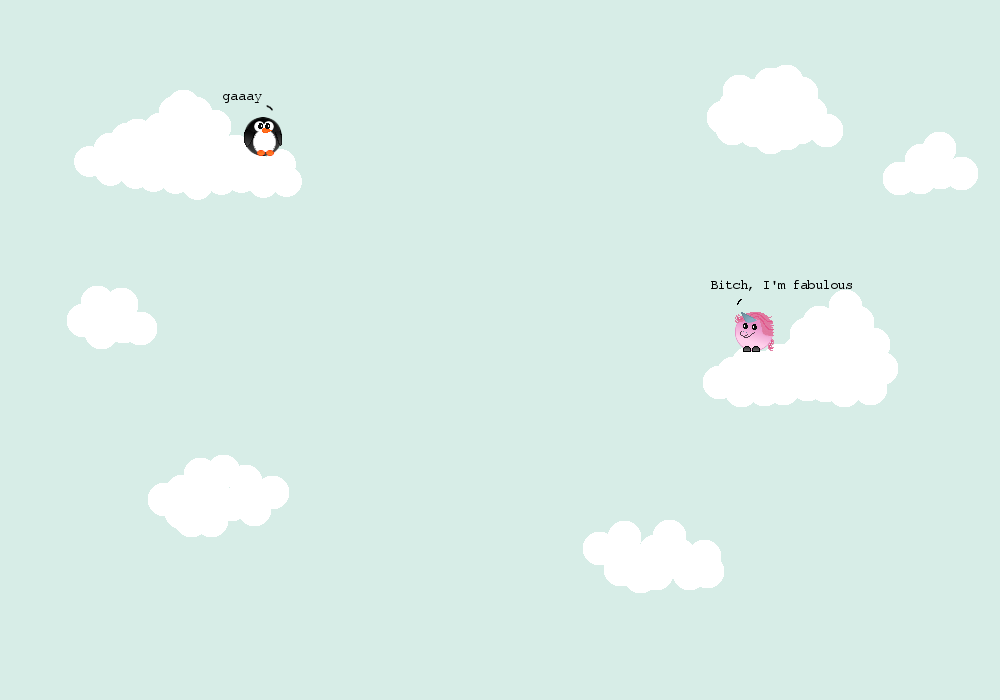
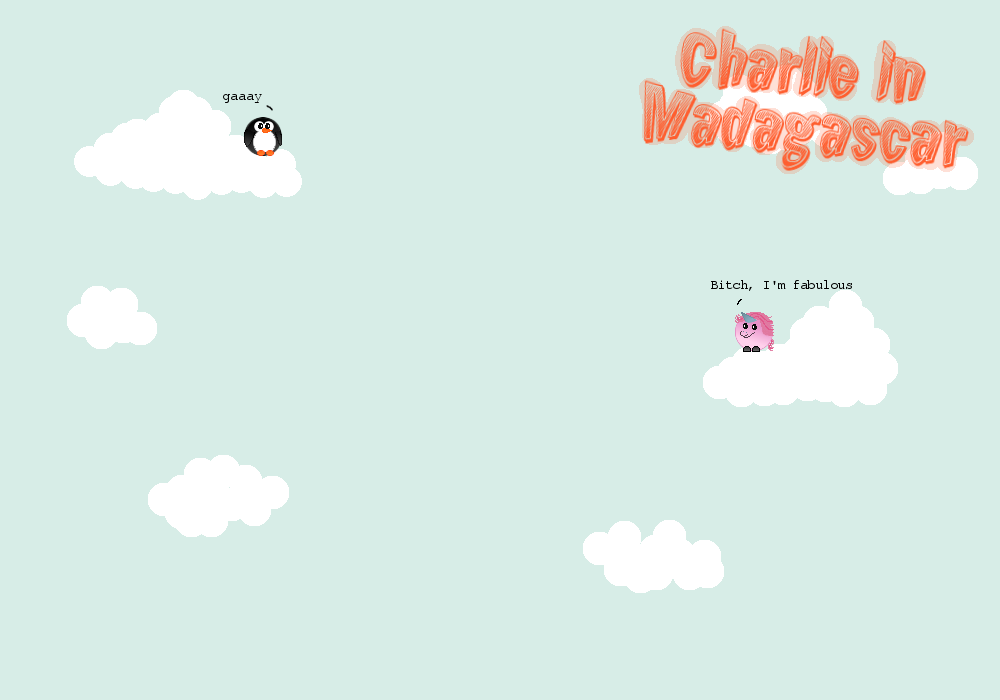
Changes about styling
- Customize looks syrupy sweet now, buttons everywhere else too
- background in main menue says 'Charlie in Madagascar'
- changed the background in Flat.lvl and High.lvl as flat.png doesn't exist

Changed region(s): [[0.62, 0.03, 0.992, 0.27]]

diff --git a/resources/layout/css/customize.css b/resources/layout/css/customize.css
@@ -23,3 +23,32 @@
 #background {
     -fx-background-image: url("file:resources/levels/board.png");
 }
+
+.list {
+    -fx-background-image: url("file:resources/layout/rainbow.png");
+    -fx-background-repeat: repeat-y;
+    -fx-background-position: center;
+}
+
+.listHBox {
+    -fx-background-color: rgba(255, 255, 255, 0.8);
+    -fx-padding: 0 0 0 0;
+}
+
+.listHBox:hover {
+    -fx-background-color: rgba(254, 94, 47, 0.5);
+}
+
+.listButton {
+    -fx-background-insets: 50;
+}
+
+.mainButton {
+    -fx-background-color: rgba(254, 94, 47, 0.5);
+    -fx-padding: 5 10 5 10;
+    -fx-background-radius: 5;
+}
+
+.mainButton:hover {
+    -fx-background-color: rgba(255, 255, 255, 0.7);
+}

diff --git a/resources/layout/css/settings.css b/resources/layout/css/settings.css
@@ -4,3 +4,22 @@
     -fx-background-image: url("file:resources/layout/back.png");
     -fx-background-position: top left;
 }
+
+.mainButton {
+    -fx-background-color: rgba(254, 94, 47, 0.5);
+    -fx-padding: 5 10 5 10;
+    -fx-background-radius: 5;
+}
+
+.mainButton:hover {
+    -fx-background-color: rgba(255, 255, 255, 0.7);
+}
+
+.plus {
+    -fx-background-color: linear-gradient(#ff5400, #be1d00);
+    -fx-background-radius: 10;
+    -fx-background-insets: 30;
+    -fx-text-fill: #cc0100;
+    -fx-border-color: rgb(150, 150, 150);
+    -fx-border-radius: 5;
+}

diff --git a/resources/layout/css/mapwindow.css b/resources/layout/css/mapwindow.css
@@ -14,14 +14,11 @@
 }
 
 .button {
-    -fx-font-size: 15px;
-    -fx-padding: 4 22 12 22;
-    -fx-text-fill: #FFFFFF;
-    -fx-background-image: url("file:resources/layout/menuebutton.png");
-    -fx-background-repeat: repeat-x;
-    -fx-focus-color: transparent;
+    -fx-background-color: rgba(254, 94, 47, 0.5);
+    -fx-padding: 5 10 5 10;
+    -fx-background-radius: 5;
 }
 
 .button:hover  {
-    -fx-background-image: url("file:resources/layout/menuebuttonhover.png");
+    -fx-background-color: rgba(255, 255, 255, 0.7);
 }

diff --git a/resources/layout/css/options.css b/resources/layout/css/options.css
@@ -8,3 +8,13 @@
 .optionsText {
     -fx-fill: linear-gradient(from 0% 0% to 100% 200%, repeat, #ff5e30 0%, #ff2b30 50%);
 }
+
+.mainButton {
+    -fx-background-color: rgba(254, 94, 47, 0.5);
+    -fx-padding: 5 10 5 10;
+    -fx-background-radius: 5;
+}
+
+.mainButton:hover {
+    -fx-background-color: rgba(255, 255, 255, 0.7);
+}

diff --git a/resources/layout/css/lobby.css b/resources/layout/css/lobby.css
@@ -42,3 +42,13 @@
     -fx-background-insets: 50;
     -fx-text-fill: #cc0100;
 }
+
+.mainButton {
+    -fx-background-color: rgba(255, 255, 255, 0.7);
+    -fx-padding: 5 10 5 10;
+    -fx-background-radius: 5;
+}
+
+.mainButton:hover {
+    -fx-background-color: rgba(254, 94, 47, 0.7);
+}

diff --git a/src/de/hhu/propra/team61/CustomizeWindow.java b/src/de/hhu/propra/team61/CustomizeWindow.java
@@ -63,12 +63,12 @@ public class CustomizeWindow extends Application {
     /** TextField to enter wanted team name */
     private TextField name = new TextField("player");
     /** ColorPicker to choose wanted team color */
-    private ColorPicker color = new ColorPicker(Color.web("#FF00FF"));
+    private ColorPicker color = new ColorPicker(Color.web("#663366"));
     /** choose penguin or unicorn as the team's figure */
     private ChoiceBox<String> figureChooser = new ChoiceBox<>();
 
     ///Style editor
-    /** grid for all GUI-elements for creating a game styke */
+    /** grid for all GUI-elements for creating a game style */
     private CustomGrid newGameStyleGrid = new CustomGrid();
     /** grid containing elements for changing items */
     private CustomGrid itemsGrid = new CustomGrid();
@@ -170,23 +170,27 @@ public class CustomizeWindow extends Application {
     private void createTopBox() {
         HBox topBox = new HBox(20);
         Button edit = new Button("Edit team/game style/map");
+        edit.getStyleClass().add("mainButton");
         edit.setOnAction(e -> {
             root.getChildren().remove(itemsGrid);
             createEditGrid();
             root.setLeft(editGrid);
         });
         Button newTeam = new Button("Create new team");
+        newTeam.getStyleClass().add("mainButton");
         newTeam.setOnAction(e -> {
             refresh();
             root.setLeft(newTeamGrid);
             root.getChildren().remove(itemsGrid);
         });
         Button newGameStyle = new Button("Create new game style");
+        newGameStyle.getStyleClass().add("mainButton");
         newGameStyle.setOnAction(e -> {
             refresh();
             root.setLeft(newGameStyleGrid);
         });
         Button newMap = new Button("Create new map");
+        newMap.getStyleClass().add("mainButton");
         newMap.setOnAction(e -> {
             refresh();
             root.getChildren().remove(itemsGrid);
@@ -195,12 +199,13 @@ public class CustomizeWindow extends Application {
             root.setLeft(newMapPane);
             scrollPane.requestFocus(); // to make cheat work right away
         });
-        Button backToMenue = new Button("Go back to menue");
-        backToMenue.setOnAction(e -> {
+        Button backToMenu = new Button("Go back to menu");
+        backToMenu.getStyleClass().add("mainButton");
+        backToMenu.setOnAction(e -> {
             stopCheat();
             sceneController.switchToMenu();
         });
-        topBox.getChildren().addAll(edit, newTeam, newGameStyle, newMap, backToMenue);
+        topBox.getChildren().addAll(edit, newTeam, newGameStyle, newMap, backToMenu);
         topBox.setAlignment(Pos.CENTER);
         root.setTop(topBox);
     }
@@ -210,20 +215,20 @@ public class CustomizeWindow extends Application {
      */
     private void createEditGrid() {
         editGrid = new CustomGrid();
-        Text whatToDoHere = new Text("Here you can edit or remove an existing team or game style.");
-        editGrid.add(whatToDoHere, 0, 2, 15, 1);
         Text teamsText = new Text("Teams:");
         teamsText.setFont(Font.font("Verdana", 20));
-        editGrid.add(teamsText, 0, 4, 2, 1);
+        editGrid.add(teamsText, 0, 0, 2, 1);
         getTeams();
         Text stylesText = new Text("Game Styles:");
         stylesText.setFont(Font.font("Verdana", 20));
-        editGrid.add(stylesText, 5, 4, 2, 1);
+        editGrid.add(stylesText, 1, 0, 2, 1);
         getGameStyles();
         Text mapsText = new Text("Maps:");
         mapsText.setFont(Font.font("Verdana", 20));
-        editGrid.add(mapsText, 10, 4, 2, 1);
+        editGrid.add(mapsText, 2, 0, 2, 1);
         getMaps();
+        Image customizeImage = new Image("file:resources/layout/customize.png");
+        editGrid.add(new ImageView(customizeImage), 3, 1, 3, 7);
     }
 
     /**
@@ -248,6 +253,7 @@ public class CustomizeWindow extends Application {
         figureChooser.getSelectionModel().selectFirst();
         newTeamGrid.add(figureChooser, 2, 7);
         Button saveTeam = new Button("Save");
+        saveTeam.getStyleClass().add("mainButton");
         saveTeam.setOnAction(e -> {
             CustomizeManager.save(teamToJson(), "teams/" + name.getText());
             createEditGrid();
@@ -290,6 +296,7 @@ public class CustomizeWindow extends Application {
         mapChooser.getSelectionModel().selectFirst();
         newGameStyleGrid.add(mapChooser, 1, 4);
         Button saveGameStyle = new Button("Save");
+        saveGameStyle.getStyleClass().add("mainButton");
         saveGameStyle.setOnAction(e -> {
             CustomizeManager.save(styleToJson(), "gamestyles/"+styleNameField.getText());
             createEditGrid();
@@ -298,6 +305,7 @@ public class CustomizeWindow extends Application {
         });
         newGameStyleGrid.add(saveGameStyle, 0, 10);
         Button changeItems = new Button("Change items");
+        changeItems.getStyleClass().add("mainButton");
         newGameStyleGrid.add(changeItems, 0, 5);
         changeItems.setOnAction(e -> {
             root.setRight(itemsGrid);
@@ -419,14 +427,17 @@ public class CustomizeWindow extends Application {
         actionForTerrainButton(leftEdge, "Left edge", '\\');
         selectionGrid.add(leftEdge, 0, 6);
         selectionGrid.add(terrainType, 0, 7, 5, 1);
+        eraser.getStyleClass().add("mainButton");
         actionForTerrainButton(eraser, "Erase parts of the map.", ' ');
         selectionGrid.add(eraser, 0, 11);
+        spawnPoint.getStyleClass().add("mainButton");
         actionForTerrainButton(spawnPoint, "Set a spawn point", 'P');
         selectionGrid.add(spawnPoint, 0, 12);
         reset.setOnAction(e -> {
             //Remove all blocks, set to board.png and water
             initializeLevelEditor();
         });
+        reset.getStyleClass().add("mainButton");
         actionForTerrainButton(reset, "Remove your masterpiece :(", chosenTerrainType);
         selectionGrid.add(reset, 0, 13);
         save.setOnAction(e -> {
@@ -434,6 +445,7 @@ public class CustomizeWindow extends Application {
             createEditGrid();
             root.setLeft(editGrid);
         });
+        save.getStyleClass().add("mainButton");
         actionForTerrainButton(save, "Save the map.", chosenTerrainType);
         selectionGrid.add(save, 0, 14);
         Text brush = new Text("Brush width: ");
@@ -737,6 +749,10 @@ public class CustomizeWindow extends Application {
      */
     private void getTeams() {
         ArrayList<String> availableTeams = CustomizeManager.getAvailableTeams();
+        Pane teamList = new Pane();
+        teamList.getStyleClass().add("list");
+        ArrayList<HBox> hboxes = new ArrayList<>();
+        CustomGrid teamGrid = new CustomGrid();
         for (int i=0; i<availableTeams.size(); i++) {
             Button chooseTeamToEdit = new Button(availableTeams.get(i));
             final int finalI = i;
@@ -744,14 +760,20 @@ public class CustomizeWindow extends Application {
                 refresh();
                 editTeam(availableTeams.get(finalI));
             });
-            editGrid.add(chooseTeamToEdit, 0, i+5);
+            chooseTeamToEdit.getStyleClass().add("listButton");
             Button remove = new Button("X");
             remove.setId("removeButton");
             remove.setOnAction(e -> {
                 deleteFile("teams/" + chooseTeamToEdit.getText());
             });
-            editGrid.add(remove, 1, i+5);
+            hboxes.add(new HBox(20));
+            hboxes.get(i).getStyleClass().add("listHBox");
+            hboxes.get(i).setAlignment(Pos.CENTER);
+            hboxes.get(i).getChildren().addAll(chooseTeamToEdit, remove);
+            teamGrid.add(hboxes.get(i), 0, i);
         }
+        teamList.getChildren().add(teamGrid);
+        editGrid.add(teamList, 0, 1, 1, 10);
     }
 
     /**
@@ -760,6 +782,10 @@ public class CustomizeWindow extends Application {
      */
     private void getGameStyles() {
         ArrayList<String> availableGameStyles = CustomizeManager.getAvailableGameStyles();
+        Pane styleList = new Pane();
+        styleList.getStyleClass().add("list");
+        ArrayList<HBox> hboxes = new ArrayList<>();
+        CustomGrid styleGrid = new CustomGrid();
         for (int i=0; i<availableGameStyles.size(); i++) {
             Button chooseStyleToEdit = new Button(availableGameStyles.get(i));
             final int finalI = i;
@@ -767,14 +793,20 @@ public class CustomizeWindow extends Application {
                 refresh();
                 editStyle(availableGameStyles.get(finalI));
             });
-            editGrid.add(chooseStyleToEdit, 5, i+5);
+            chooseStyleToEdit.getStyleClass().add("listButton");
             Button remove = new Button("X");
             remove.setId("removeButton");
             remove.setOnAction(e -> {
                 deleteFile("gamestyles/"+chooseStyleToEdit.getText());
             });
-            editGrid.add(remove, 6, i+5);
+            hboxes.add(new HBox(20));
+            hboxes.get(i).setAlignment(Pos.CENTER);
+            hboxes.get(i).getStyleClass().add("listHBox");
+            hboxes.get(i).getChildren().addAll(chooseStyleToEdit, remove);
+            styleGrid.add(hboxes.get(i), 0, i);
         }
+        styleList.getChildren().add(styleGrid);
+        editGrid.add(styleList, 1, 1, 1, 10);
     }
 
     /**
@@ -784,6 +816,10 @@ public class CustomizeWindow extends Application {
      */
     private void getMaps() {
         ArrayList<String> availableMaps = CustomizeManager.getAvailableLevels();
+        Pane mapList = new Pane();
+        mapList.getStyleClass().add("list");
+        ArrayList<HBox> hboxes = new ArrayList<>();
+        CustomGrid mapGrid = new CustomGrid();
         for (int i=0; i<availableMaps.size(); i++) {
             Button chooseMapToEdit = new Button(availableMaps.get(i));
             final int finalI = i;
@@ -794,14 +830,20 @@ public class CustomizeWindow extends Application {
                 mapNameField.setText(chosenMap);
                 root.setLeft(newMapPane);
             });
-            editGrid.add(chooseMapToEdit, 10, i+5);
+            chooseMapToEdit.getStyleClass().add("listButton");
             Button remove = new Button("X");
             remove.setId("removeButton");
             remove.setOnAction(e -> {
                 deleteFile("levels/" + chooseMapToEdit.getText());
             });
-            editGrid.add(remove, 11, i+5);
+            hboxes.add(new HBox(20));
+            hboxes.get(i).setAlignment(Pos.CENTER);
+            hboxes.get(i).getStyleClass().add("listHBox");
+            hboxes.get(i).getChildren().addAll(chooseMapToEdit, remove);
+            mapGrid.add(hboxes.get(i), 0, i);
         }
+        mapList.getChildren().add(mapGrid);
+        editGrid.add(mapList, 2, 1, 1, 10);
     }
 
     /**
@@ -954,7 +996,7 @@ public class CustomizeWindow extends Application {
      */
     private void refresh() {
         name.setText("player");
-        color.setValue(Color.web("#FF00FF"));
+        color.setValue(Color.web("#663366"));
         for (int i=0; i<6; i++) {
             figureNames.get(i).setText("Character"+(i+1));
         }

diff --git a/src/de/hhu/propra/team61/gui/NetLobby.java b/src/de/hhu/propra/team61/gui/NetLobby.java
@@ -236,6 +236,7 @@ public class NetLobby extends Application implements Networkable {
 
         HBox bottomBox = new HBox();
         Button back = new Button("Back");
+        back.getStyleClass().add("mainButton");
         bottomBox.getChildren().addAll(back);
         back.setOnAction(e -> {
             if(serverThread != null) serverThread.interrupt();
@@ -289,6 +290,7 @@ public class NetLobby extends Application implements Networkable {
                 }
             }
         });
+        start.getStyleClass().add("mainButton");
         ready = new Button("Ready");
         ready.setDisable(true); //enabled when disabling spectator mode
         ready.setOnAction(new EventHandler<ActionEvent>() {
@@ -300,6 +302,7 @@ public class NetLobby extends Application implements Networkable {
                 client.send("CLIENT_READY " + toJson());
             }
         });
+        ready.getStyleClass().add("mainButton");
         startBox.setAlignment(Pos.CENTER_RIGHT);
         startBox.setPrefWidth(400);
         if (isHost) {

diff --git a/src/de/hhu/propra/team61/gui/OptionController.java b/src/de/hhu/propra/team61/gui/OptionController.java
@@ -54,8 +54,7 @@ public class OptionController {
                 if (n == 0) return "Off";
                 if (n == 1) return "Easy";
                 if (n == 2) return "Normal";
-                if (n == 3) return "Hard";
-                return "You idiot!";
+                return "Hard";
             }
             @Override
             public Double fromString(String s) {
